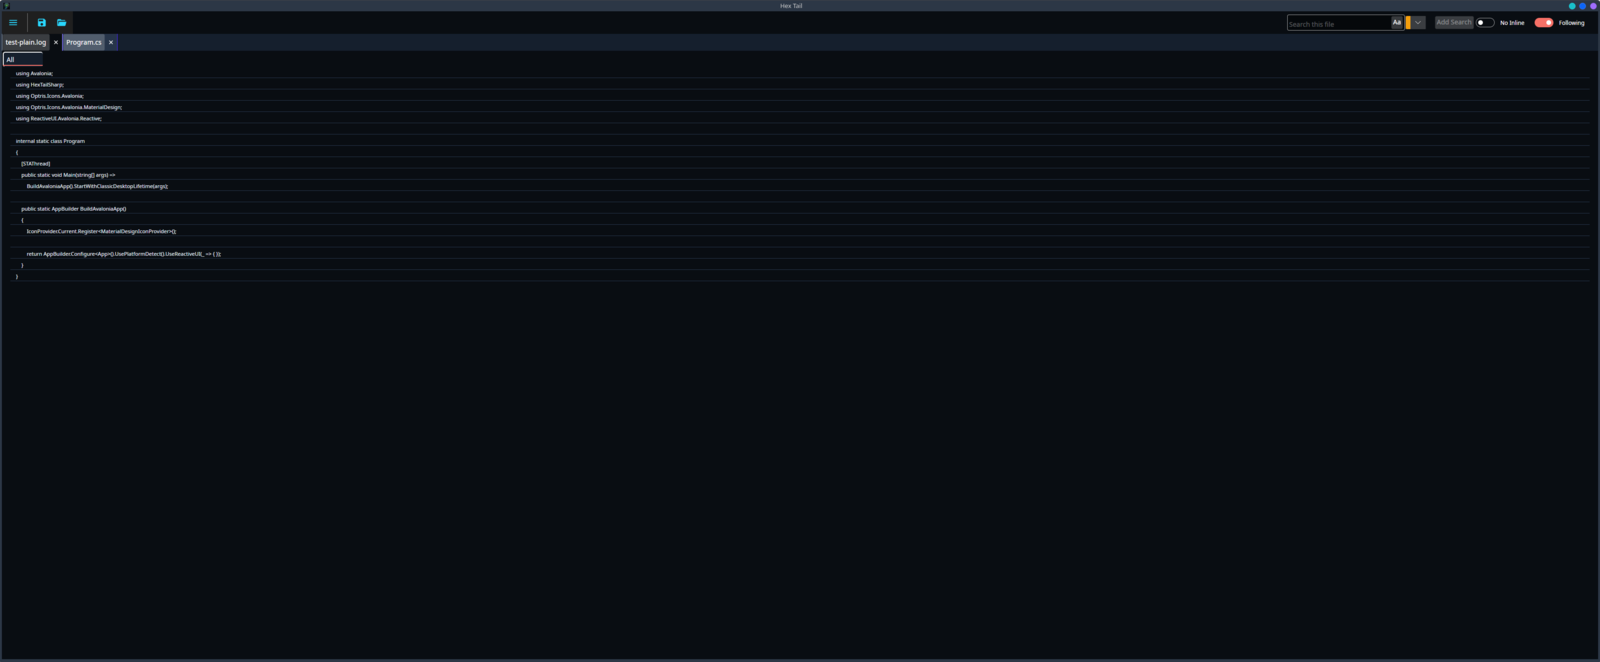
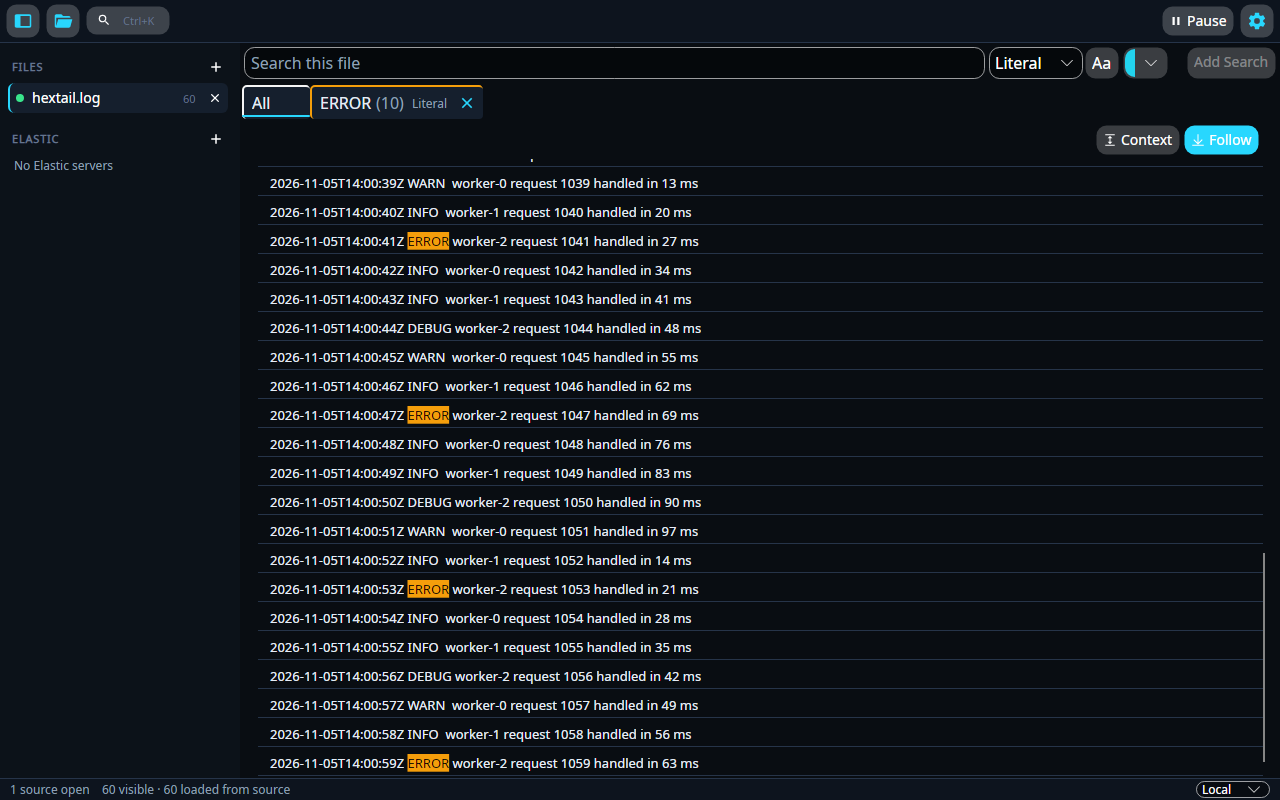
docs: refresh the README screenshot for the sidebar layout

diff --git a/README.md b/README.md
@@ -11,7 +11,7 @@ Elastic sources use separate Kibana and Elasticsearch URLs, generic
 server/namespace mappings, ordered output fields, a five-minute initial
 lookback, and native OS credential storage for authenticated connections.
 
-![HexTail desktop UI](assets/hextail-ui.png)
+![HexTail desktop UI: source sidebar, search bar, and a live log view](assets/hextail-ui.png)
 
 ## Features
 
